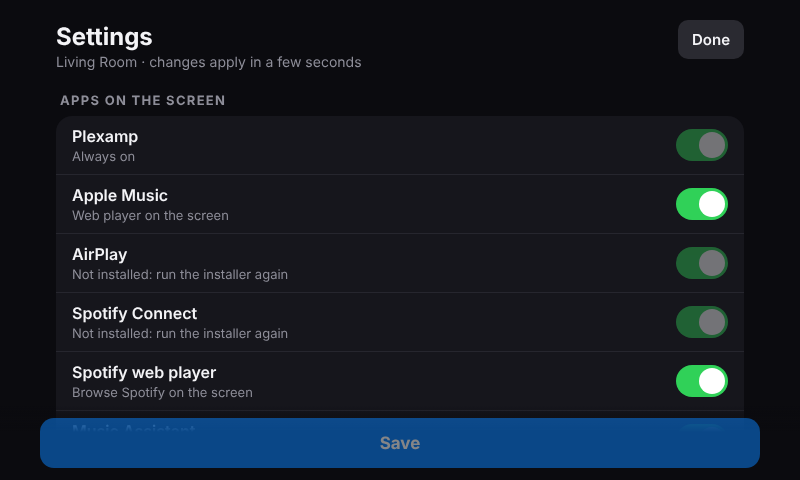
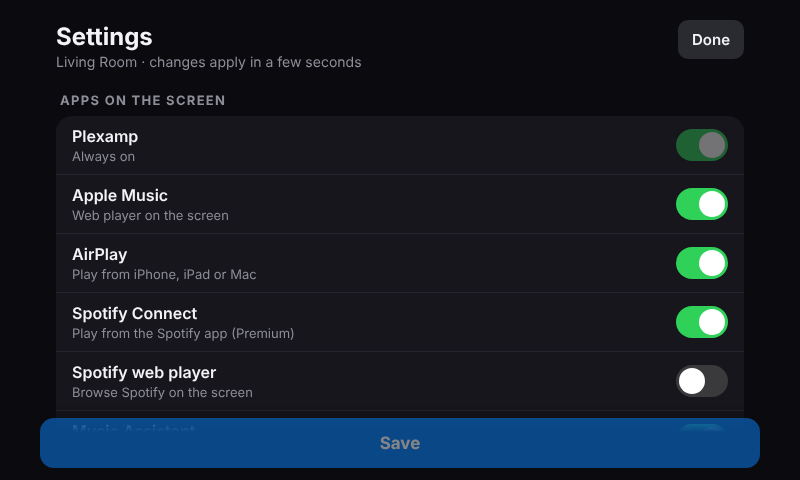
Step-by-step install guide, wiring diagram and new screenshots
- docs/INSTALL.md: shopping list, connecting a DAC to a receiver or speakers, Raspberry Pi Imager,
  SSH, the wizard, linking Plexamp, first use, phone settings, Home Assistant, troubleshooting
- docs/wiring.svg: three audio setups
- Screenshots of every screen

Claude-Session: https://claude.ai/code/session_01FFyBZgeKgNazMmhzoTjzWR

diff --git a/docs/INSTALL.md b/docs/INSTALL.md
@@ -1,0 +1,269 @@
+# Build your own PlexPie: step-by-step guide
+
+This guide takes you from an empty box of parts to a working music player, one step at a time.
+You don't need to know Linux. You will copy and paste a few commands, and every one is written out
+for you. Plan on about **an hour**: 15 minutes of setup, then 15 to 30 minutes of the Pi installing
+things on its own.
+
+<img src="launcher.png" width="80%" alt="The PlexPie home screen playing Hotel California by Eagles">
+
+**Contents**
+
+1. [What you need](#1-what-you-need)
+2. [Connect the hardware](#2-connect-the-hardware)
+3. [Put Raspberry Pi OS on the memory card](#3-put-raspberry-pi-os-on-the-memory-card)
+4. [Start the Pi and connect to it from your computer](#4-start-the-pi-and-connect-to-it-from-your-computer)
+5. [Install PlexPie](#5-install-plexpie)
+6. [Link Plexamp to your Plex account](#6-link-plexamp-to-your-plex-account)
+7. [First use: play some music](#7-first-use-play-some-music)
+8. [Set up your receiver or speakers](#8-set-up-your-receiver-or-speakers)
+9. [Settings, also from your phone](#9-settings-also-from-your-phone)
+10. [Optional: Home Assistant](#10-optional-home-assistant)
+11. [Updating and uninstalling](#11-updating-and-uninstalling)
+12. [Something's not working?](#12-somethings-not-working)
+
+---
+
+## 1. What you need
+
+| Part | What to get | Notes |
+|---|---|---|
+| **Raspberry Pi** | Raspberry Pi 4 (2 GB or more) or Raspberry Pi 5 | A Pi 4 with 4 GB is plenty |
+| **Power supply** | The official Raspberry Pi USB-C power supply for your model | Cheap phone chargers cause random freezes |
+| **Memory card** | microSD card, 32 GB or larger, "A1" or "A2" rated | SanDisk or Samsung are reliable |
+| **Touchscreen** | The official Raspberry Pi 7" Touch Display, or any HDMI touchscreen | Any size works; the screen adapts |
+| **Case** | A case that holds your Pi and screen together | Optional, but it makes it look like a real device |
+| **Audio** | A **USB DAC** (recommended), or use HDMI / the headphone jack | See [section 2](#2-connect-the-hardware) |
+| **Cables** | An RCA cable (DAC to receiver) or 3.5 mm cable (DAC to powered speakers) | Most DACs come with a USB cable |
+| **A computer** | Mac, Windows or Linux, with a microSD card reader | Only for setup |
+| **Accounts** | Plex (free) for Plexamp. Optional: Apple Music, Spotify Premium, Home Assistant | You can add these later |
+
+> **What's a DAC?** A small box that turns digital music into the analog signal your amplifier or
+> speakers understand. The Pi's own headphone jack works, but a USB DAC (from about $50, e.g. SMSL,
+> Topping or FiiO) sounds far better and plays lossless and hi-res music from Plexamp at full quality.
+
+## 2. Connect the hardware
+
+Do this with the power **unplugged**.
+
+1. **Screen.** For the official 7" display, connect its ribbon cable to the Pi's "DISPLAY" connector
+   and its power wires to the Pi's pins, as shown in the screen's leaflet. For an HDMI touchscreen,
+   connect HDMI to the Pi's HDMI port (the one next to the power port) and the screen's USB cable to
+   the Pi, which is how touch works.
+2. **Network.** A network cable from your router to the Pi is the most reliable. Wi-Fi works too;
+   you set it up in step 3.
+3. **Audio.** Pick one of these three setups:
+
+<img src="wiring.svg" width="100%" alt="Three ways to connect audio: USB DAC to a receiver, USB DAC to powered speakers, or HDMI / headphone jack">
+
+- **A. USB DAC into a receiver or amplifier (best).** USB cable from the Pi to the DAC. RCA cable
+  from the DAC's output to any analog input on your receiver (often labelled CD, AUX, TAPE or
+  similar). Your receiver powers the speakers and subwoofer as usual.
+- **B. USB DAC into powered speakers.** Same as A, but the DAC's output goes straight into powered
+  speakers (speakers with their own power cable and volume knob), or plug headphones into the DAC.
+- **C. No DAC.** Use the Pi's HDMI into a TV, soundbar or receiver, or the Pi's 3.5 mm headphone
+  jack into powered speakers.
+
+PlexPie finds a USB DAC by itself; you don't need to configure anything.
+
+Don't plug in the power yet.
+
+## 3. Put Raspberry Pi OS on the memory card
+
+1. On your computer, download and install **Raspberry Pi Imager** from
+   [raspberrypi.com/software](https://www.raspberrypi.com/software/).
+2. Put the microSD card in your computer and open Raspberry Pi Imager.
+3. **Choose Device:** pick your Pi (Raspberry Pi 4 or 5).
+4. **Choose OS:** pick **Raspberry Pi OS (64-bit)**. Either the normal version or "Lite" (under
+   *Raspberry Pi OS (other)*) works; Lite starts faster.
+5. **Choose Storage:** pick your microSD card. Double-check it's the card, not another drive.
+6. Click **Next**. When it asks *"Would you like to apply OS customisation settings?"*, click
+   **Edit Settings** and fill in:
+   - **Hostname:** a name for your player, for example `plexpie`.
+   - **Username and password:** choose a username (for example `pi`) and a password. Write them down.
+   - **Wireless LAN:** your Wi-Fi name and password, if you're not using a network cable. Set the
+     country to where you live.
+   - **Locale settings:** your time zone and keyboard.
+   - **Services** tab: turn on **Enable SSH** and choose **Use password authentication**.
+7. Click **Save**, then **Yes** to apply the settings, then **Yes** to write the card.
+   It takes a few minutes.
+8. When it says it's finished, take the card out and put it in the Pi (the slot is underneath).
+
+## 4. Start the Pi and connect to it from your computer
+
+1. Plug in the Pi's power. The screen shows the Pi starting up. The first start takes 2 to 3
+   minutes while it sets itself up; it may restart once by itself.
+2. On your computer, open a terminal:
+   - **Mac:** press <kbd>⌘ Command</kbd> + <kbd>Space</kbd>, type `Terminal`, press <kbd>Enter</kbd>.
+   - **Windows:** press <kbd>Start</kbd>, type `PowerShell`, press <kbd>Enter</kbd>.
+3. Type this, using the username and hostname you chose in step 3, and press <kbd>Enter</kbd>:
+
+   ```bash
+   ssh pi@plexpie.local
+   ```
+
+4. The first time, it asks *"Are you sure you want to continue connecting?"*. Type `yes` and press
+   <kbd>Enter</kbd>. Then type your Pi's password (nothing appears while you type, that's normal)
+   and press <kbd>Enter</kbd>.
+5. You're in when you see something like `pi@plexpie:~ $`.
+
+> **"Could not resolve hostname"?** Use the Pi's address instead of `plexpie.local`. Find it in your
+> router's list of connected devices (look for "plexpie"), then run `ssh pi@192.168.1.42` with that
+> address.
+
+## 5. Install PlexPie
+
+Still in the terminal connected to the Pi, copy this whole line, paste it, and press <kbd>Enter</kbd>:
+
+```bash
+curl -fsSL https://raw.githubusercontent.com/ROGUEONE-SZ/plexamp-raspberry-pi-install/main/get.sh | bash
+```
+
+A short setup wizard asks a few questions. Press <kbd>Enter</kbd> to accept the suggested answer
+shown in brackets, or type your own:
+
+| Question | What to answer |
+|---|---|
+| Linux user that runs the screen | Press Enter (your username) |
+| Player name | What you'll see in Plexamp and AirPlay, e.g. `Living Room` |
+| Add an AirPlay 2 receiver? | `yes` if you have an iPhone, iPad or Mac |
+| Add the Apple Music web player? | `yes` if you have Apple Music |
+| Add a Spotify Connect receiver? | `yes` if you have Spotify Premium |
+| Add Music Assistant? | `no`, unless you already run a Music Assistant server |
+| Connect to Home Assistant? | `no`, unless you use Home Assistant (you can add it later) |
+| Turn the screen off after how many idle seconds? | `60` is a good start |
+
+Then it installs everything by itself. It may ask for your Pi's password once. Expect **15 to 30
+minutes**; building AirPlay takes the longest. You can leave it running.
+
+## 6. Link Plexamp to your Plex account
+
+Partway through, the installer stops and asks for a **claim code**:
+
+1. On your phone or computer, open [plex.tv/claim](https://plex.tv/claim) and sign in to Plex.
+2. Copy the code it shows (it starts with `claim-`).
+3. Paste it into the terminal and press <kbd>Enter</kbd>. The code expires after a few minutes, so
+   do this right away.
+4. When it asks for a player name, type the same name you gave in the wizard and press <kbd>Enter</kbd>.
+5. When Plexamp says it's ready, press <kbd>Ctrl</kbd> + <kbd>C</kbd>. The installer carries on.
+
+When the installer finishes, the touchscreen restarts and shows the PlexPie home screen.
+You can close the terminal.
+
+## 7. First use: play some music
+
+<img src="launcher.png" width="49%" alt="Home screen"> <img src="airplay.png" width="49%" alt="AirPlay now playing">
+
+The home screen has a tile for each music app. Tap one to open it. To come back to the home screen
+from any app, **swipe right from the left edge** of the screen, or **swipe down from the top edge**.
+
+- **Plexamp:** tap the tile and pick your Plex server, then play anything. You can also control it
+  from the Plexamp app on your phone: choose your player name as the playback device.
+- **AirPlay:** on your iPhone, open Control Center, tap the AirPlay icon in the music controls and
+  choose your player name. The screen shows the cover, song and stream quality.
+- **Spotify:** in the Spotify app, tap the speaker icon and choose your player name.
+- **Apple Music:** tap the tile and sign in to Apple Music on the screen. A keyboard slides up when
+  you tap a text box.
+- **Timer:** an interval timer for workouts, plus countdown and stopwatch. Big numbers and beeps,
+  and the screen stays on while it runs.
+
+<img src="spotify.png" width="49%" alt="Spotify Connect now playing"> <img src="timer.png" width="49%" alt="Workout timer">
+
+Good to know:
+
+- **One thing plays at a time.** Starting music from one app pauses the others, and the screen
+  switches to the app that's playing.
+- **The screen sleeps** when nothing is playing. The first tap only wakes it, so you don't press
+  anything by accident.
+- **Volume:** use the − and + buttons on the home screen, or your receiver's knob.
+
+## 8. Set up your receiver or speakers
+
+**With a receiver or amplifier (setup A):**
+
+1. Switch the receiver to the input you plugged the DAC into (for example CD or AUX).
+2. Leave PlexPie's volume at 100 and use the receiver's volume knob. That gives the best sound.
+3. Start with the receiver turned down, play something, then turn it up slowly.
+4. Optional: many receivers can be renamed per input ("PlexPie" instead of "CD"), and many can
+   switch themselves on with network control. Home Assistant can then turn the receiver on when music
+   starts and off when it stops; see [section 10](#10-optional-home-assistant).
+
+**With powered speakers (setup B):** set the speakers' own volume to about halfway, and use
+PlexPie's − and + buttons for everyday volume.
+
+**With HDMI or the headphone jack (setup C):** without a USB DAC, PlexPie plays through the Pi's
+default output. If the sound comes out of the wrong one, connect to the Pi (step 4), run
+`wpctl status`, note the number next to the output you want under "Sinks", and run
+`wpctl set-default <number>`.
+
+**A subwoofer that never turns off?** Plug it into a smart plug and let Home Assistant switch it
+with the receiver.
+
+## 9. Settings, also from your phone
+
+Tap the **gear** at the top right of the home screen.
+
+<img src="settings.png" width="80%" alt="Settings on the touchscreen">
+
+Here you can:
+
+- turn apps on and off (they disappear from the home screen),
+- see which accounts are signed in,
+- set the screen brightness and sleep time,
+- join a Wi-Fi network, or turn Wi-Fi off,
+- install updates with one button,
+- connect Home Assistant and add home-screen buttons for it.
+
+**From your phone:** under **Phone access**, Settings shows an address like
+`http://192.168.1.42:8080/settings` and a **PIN**. Open that address on your phone (on the same
+Wi-Fi) and type the PIN once. Your phone stays signed in.
+
+<img src="phone-pin.png" width="30%" alt="Phone: enter the PIN"> <img src="phone-settings.png" width="30%" alt="Phone: settings">
+
+To keep it on your home screen like an app: **Share → Add to Home Screen** on iPhone, or
+**⋮ → Add to Home screen** on Android.
+
+## 10. Optional: Home Assistant
+
+If you use [Home Assistant](https://www.home-assistant.io) with the Mosquitto broker app, enter the
+broker's address, username and password in **Settings → Home Assistant**. The player then appears
+in Home Assistant by itself, with:
+
+- what's playing, a **Playing** sensor, the current app, volume and screen controls,
+- **launcher buttons:** type names in **Settings → Home Assistant → Launcher buttons** (for example
+  `Lights`). Each becomes a button on the home screen and a switch in Home Assistant, so a tap can
+  run any automation,
+- **screen alerts:** show a message and a camera picture on the screen with a chime, for example
+  when the doorbell rings. Music keeps playing.
+
+<img src="alert.png" width="60%" alt="A doorbell alert on the screen">
+
+Ideas: turn the receiver and subwoofer on when **Playing** turns on and off a few minutes after it
+turns off; turn on the room lights from a launcher button; show the front-door camera when someone
+rings. The [main README](../README.md#home-assistant) has the details and examples.
+
+## 11. Updating and uninstalling
+
+- **Update:** **Settings → Updates → Update now**. It installs Raspberry Pi OS updates and the newest
+  PlexPie together, with a progress bar, and tells you if a restart is needed. It also checks by
+  itself twice a day.
+- **Change your wizard answers:** connect to the Pi (step 4) and run
+  `bash ~/plexpie/configure.sh && sudo bash ~/plexpie/install.sh`.
+- **Uninstall:** run `sudo bash ~/plexpie/rollback.sh`, then `sudo reboot`. The Pi goes back to how
+  it was before PlexPie.
+
+## 12. Something's not working?
+
+| Problem | Try this |
+|---|---|
+| No sound | Check the receiver's input and volume. In Settings, make sure the app is on. Then run `bash ~/plexpie/tools/diagnose.sh`, which also plays a test tone |
+| AirPlay or Spotify doesn't show the player | Phone and Pi must be on the same network. Some routers block this between Wi-Fi and wired devices; turn on "mDNS" or "Bonjour" forwarding in the router |
+| The screen is upside down or touches land in the wrong place | Set `TOUCH_ROTATE` in `~/plexpie/plexpie.conf`, then run `sudo bash ~/plexpie/install.sh` |
+| Plexamp keeps spinning | Settings → System → **Restart PlexPie** |
+| Can't find the phone address | It's in Settings → Phone access on the player |
+| The screen is black | Tap it: it's probably asleep. Still black? Unplug the power for 10 seconds |
+| Anything else | Run `bash ~/plexpie/tools/diagnose.sh` and [open an issue](https://github.com/ROGUEONE-SZ/plexamp-raspberry-pi-install/issues) with its output |
+
+---
+
+PlexPie is free for personal, non-commercial use. See the [license](../LICENSE.md).

diff --git a/README.md b/README.md
@@ -4,9 +4,17 @@ Turn a Raspberry Pi with a touchscreen and a DAC into a one-screen music player:
 **Plexamp**, **AirPlay 2**, **Spotify Connect**, the **Apple Music** web player and **Music Assistant**, all
 on one launcher and all controllable from **Home Assistant**.
 
+> **New to Raspberry Pi?** Follow the **[step-by-step guide](docs/INSTALL.md)**: shopping list,
+> wiring your DAC to a receiver or speakers, preparing the memory card, installing, and first use.
+> No Linux knowledge needed.
+
 <p>
-  <img src="docs/launcher.png" width="49%" alt="Launcher with Plexamp, Apple Music, AirPlay and Music Assistant tiles">
-  <img src="docs/airplay.png" width="49%" alt="AirPlay now-playing screen with track and stream format">
+  <img src="docs/launcher.png" width="49%" alt="Home screen playing Hotel California by Eagles in Plexamp">
+  <img src="docs/airplay.png" width="49%" alt="AirPlay now-playing screen with cover, track and stream format">
+</p>
+<p>
+  <img src="docs/timer-running.png" width="49%" alt="Workout timer counting down a work interval">
+  <img src="docs/alert.png" width="49%" alt="Doorbell alert with camera picture">
 </p>
 
 | Source | What it is |
@@ -44,7 +52,7 @@ How it behaves:
 
 ## Install
 
-On the Pi, logged in as your normal user (not root):
+The [step-by-step guide](docs/INSTALL.md) walks through everything from an empty Pi. The short version, on the Pi, logged in as your normal user (not root):
 
 ```bash
 curl -fsSL https://raw.githubusercontent.com/ROGUEONE-SZ/plexamp-raspberry-pi-install/main/get.sh | bash
@@ -80,7 +88,7 @@ sudo bash install.sh
 
 Tap the gear on the launcher, or open `http://<pi-address>:8080/settings` on your phone. The address and PIN are on the player's Settings page under **Phone access**.
 
-<img src="docs/settings.png" width="60%" alt="Settings page">
+<img src="docs/settings.png" width="60%" alt="Settings page"> <img src="docs/phone-settings.png" width="22%" alt="Settings on a phone">
 
 - **Apps:** turn Apple Music, AirPlay, Spotify Connect, the Spotify web player and Music Assistant on or off. The change is instant: everything is installed, and players that are off are stopped.
 - **Accounts:** shows whether each service is linked, with sign-out for the web players. PlexPie never stores your passwords; each service signs in on its own page and keeps a token.
